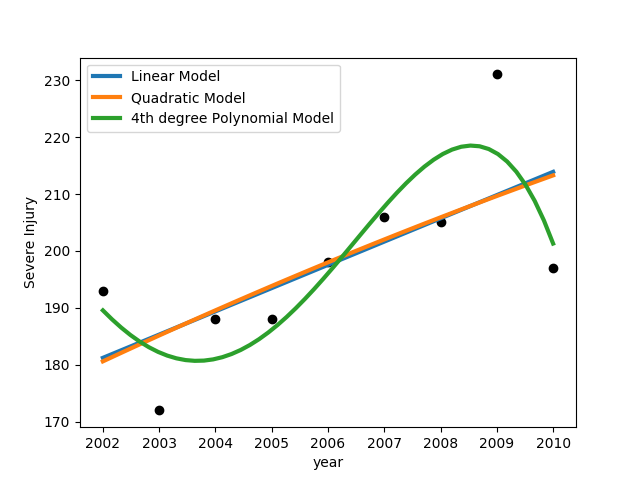
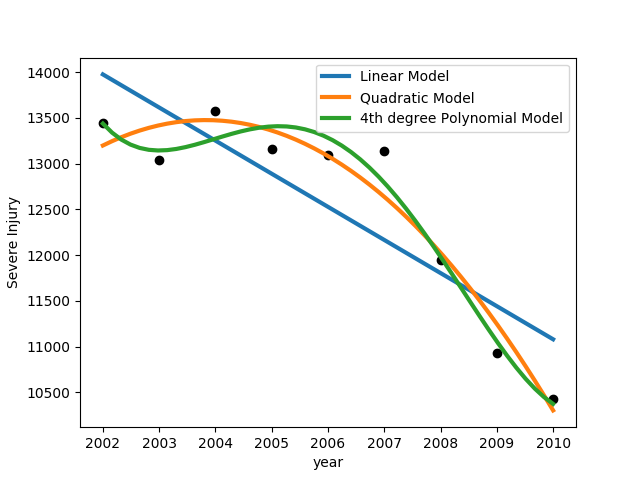
Added trend analysis

diff --git a/main.py b/main.py
@@ -1,9 +1,11 @@
 import os
 import argparse
+import scipy
+import sklearn as sk
 
 from utils import *
 
-def run_all_filter(x):
+def bool_filter(x):
 	if x.lower() in ['true', 't', 'yes', 'y']:
 		return True
 	elif x.lower() in ['false', 'f', 'no', 'n']:
@@ -15,10 +17,16 @@ if __name__ == '__main__':
 	parser = argparse.ArgumentParser()
 
 	parser.add_argument('-run_all',
-		type=run_all_filter,
+		type=bool_filter,
 		default=False,
 		help='Boolean flag. Run all? [True/False]'
 	)
+	parser.add_argument('-verbose',
+		type=bool_filter,
+		default=True,
+		help='Boolean flag. Print statements? [True/False]'
+	)
+
 
 	args = parser.parse_args()
 
@@ -29,7 +37,7 @@ if __name__ == '__main__':
 		]
 
 	filter_dict = {
-	'geoname': 'San Diego',
+	'geoname': 'California',
 	'severity': 'Severe Injury',
 	'mode': None,
 	'reportyear': range(2002,2011)
@@ -45,9 +53,12 @@ if __name__ == '__main__':
 		xs.update({m: xdata.filter_data(xdata.find_rows(filter_dict))})
 		print('\n')
 
+	traffic_models = {}
 	for key, data in xs.items():
+		print key
 		a = BuildModel(data, ylabel=filter_dict['severity'])
 		a.all(key)
+		traffic_models.update({key:a})
 
 
 	### Applying same code to Annual Miles Travelled
@@ -65,19 +76,42 @@ if __name__ == '__main__':
 	}
 	miles_data = InputData()
 	miles_data.load_data('data/annual-miles-traveled-2002-2010.csv', read_columns=filter_items)
-	xs = {}
+	ms = {}
 	for m in ['Bicyclist', 'Pedestrian', 'Vehicle']:
 		filter_dict['mode'] = m
-		xs.update({m: miles_data.filter_data(miles_data.find_rows(filter_dict))})
+		ms.update({m: miles_data.filter_data(miles_data.find_rows(filter_dict))})
 		print('\n')
 
-	for key, data in xs.items():
+	miles_models = {}
+	for key, data in ms.items():
+		print key
 		data.to_csv('test.csv')
 		a = BuildModel(data,ydim='ratio', ylabel='Miles Traveled per Square Mile')
-		#a.LinReg(key)
-		#a.QuadReg(key)
 		a.all(key)
+		miles_models.update({key: a})
 	
+	if args.verbose:
+		slope, inter, r, p, std = scipy.stats.mstats.linregress(traffic_models['Bicyclist'].y_lin, miles_models['Bicyclist'].y_lin)
+		print '\nBikers\nLinReg :: R-squard: {0:.2f}, P-Value: {1:.2f}'.format(r, p)
+		slope, inter, r, p, std = scipy.stats.mstats.linregress(traffic_models['Bicyclist'].y_quad, miles_models['Bicyclist'].y_quad)
+		print 'QuadReg :: R-squard: {0:.2f}, P-Value: {1:.2f}'.format(r, p)
+		slope, inter, r, p, std = scipy.stats.mstats.linregress(traffic_models['Bicyclist'].y_poly, miles_models['Bicyclist'].y_poly)
+		print 'Poly-4 :: R-squard: {0:.2f}, P-Value: {1:.2f}\n'.format(r, p)
+
+		slope, inter, r, p, std = scipy.stats.mstats.linregress(traffic_models['Pedestrian'].y_lin, miles_models['Pedestrian'].y_lin)
+		print 'Pedestrians\nLinReg :: R-squard: {0:.2f}, P-Value: {1:.2f}'.format(r, p)
+		slope, inter, r, p, std = scipy.stats.mstats.linregress(traffic_models['Pedestrian'].y_quad, miles_models['Pedestrian'].y_quad)
+		print 'QuadReg :: R-squard: {0:.2f}, P-Value: {1:.2f}'.format(r, p)
+		slope, inter, r, p, std = scipy.stats.mstats.linregress(traffic_models['Pedestrian'].y_poly, miles_models['Pedestrian'].y_poly)
+		print 'Poly-4 :: R-squard: {0:.2f}, P-Value: {1:.2f}\n'.format(r, p)
+
+		slope, inter, r, p, std = scipy.stats.mstats.linregress(traffic_models['Vehicles'].y_lin, miles_models['Vehicle'].y_lin)
+		print 'Vehicles\nLinReg :: R-squard: {0:.2f}, P-Value: {1:.2f}'.format(r, p)
+		slope, inter, r, p, std = scipy.stats.mstats.linregress(traffic_models['Vehicles'].y_quad, miles_models['Vehicle'].y_quad)
+		print 'QuadReg :: R-squard: {0:.2f}, P-Value: {1:.2f}'.format(r, p)
+		slope, inter, r, p, std = scipy.stats.mstats.linregress(traffic_models['Vehicles'].y_poly, miles_models['Vehicle'].y_poly)
+		print 'Poly-4 :: R-squard: {0:.2f}, P-Value: {1:.2f}\n'.format(r, p)
+
 	if args.run_all:
 		Tianxiang_work.main()
 		LogMode.main()

diff --git a/utils/ian.py b/utils/ian.py
@@ -108,6 +108,7 @@ class BuildModel:
 
 		self.regr = linear_model.LinearRegression()
 		self.regr.fit(self.x.reshape(len(self.x), 1), self.y.reshape(len(self.y), 1))
+		self.y_lin = self.regr.predict(self.x.reshape(len(self.x), 1))
 
 		plt.clf()
 		plt.scatter(self.x, self.y, color='black')
@@ -132,11 +133,11 @@ class BuildModel:
 		f = np.poly1d(z)
 
 		x_new = np.linspace(self.x[0], self.x[-1], 50)
-		y_new = f(x_new)
+		self.y_quad = f(x_new)
 
 		plt.clf()
 		plt.scatter(self.x, self.y, color='black')
-		plt.plot(x_new, y_new, linewidth=3, label=title)
+		plt.plot(x_new, self.y_quad, linewidth=3, label=title)
 		plt.xticks()
 		plt.yticks()
 		plt.ylabel(self.ylabel)
@@ -157,11 +158,11 @@ class BuildModel:
 		f = np.poly1d(z)
 
 		x_new = np.linspace(self.x[0], self.x[-1], 50)
-		y_new = f(x_new)
+		self.y_poly = f(x_new)
 
 		plt.clf()
 		plt.scatter(self.x, self.y, color='black')
-		plt.plot(x_new, y_new, linewidth=3, label=title)
+		plt.plot(x_new, self.y_poly, linewidth=3, label=title)
 		plt.xticks()
 		plt.yticks()
 		plt.ylabel(self.ylabel)
@@ -175,6 +176,7 @@ class BuildModel:
 	def all(self, title, **kwargs):
 		assert isinstance(title, str), "title needs to be of type str, not {0}".format(type(title))
 
+		predict_year = kwargs.pop('predict', 2018)
 		if not os.path.exists('results/all/'):
 			os.makedirs('results/all/')
 
@@ -182,23 +184,26 @@ class BuildModel:
 		f = np.poly1d(z)
 
 		x_poly = np.linspace(self.x[0], self.x[-1], 50)
-		y_poly = f(x_poly)
+		self.y_poly = f(x_poly)
+		print 'Poly-4 2018 Prediction: {0}'.format(f(predict_year))		
 
 		z = np.polyfit(self.x, self.y, 2)
 		f = np.poly1d(z)
 
 		x_quad = np.linspace(self.x[0], self.x[-1], 50)
-		y_quad = f(x_quad)	
+		self.y_quad = f(x_quad)
+		print 'QuadReg 2018 Prediction: {0}'.format(f(predict_year))	
 
 		self.regr = linear_model.LinearRegression()
 		self.regr.fit(self.x.reshape(len(self.x), 1), self.y.reshape(len(self.y), 1))
-
+		self.y_lin = self.regr.predict(self.x.reshape(len(self.x), 1))
+		print 'LinReg 2018 Prediction: {0}'.format(self.regr.predict(predict_year))
 
 		plt.clf()
 		plt.scatter(self.x, self.y, color='black')
 		plt.plot(self.x, self.regr.predict(self.x.reshape(len(self.x), 1)), linewidth=3, label='Linear Model')
-		plt.plot(x_quad, y_quad, linewidth=3, label='Quadratic Model')
-		plt.plot(x_poly, y_poly, linewidth=3, label='{0}th degree Polynomial Model'.format(kwargs.pop('deg', 4)))		
+		plt.plot(x_quad, self.y_quad, linewidth=3, label='Quadratic Model')
+		plt.plot(x_poly, self.y_poly, linewidth=3, label='{0}th degree Polynomial Model'.format(kwargs.pop('deg', 4)))		
 		plt.xticks()
 		plt.yticks()
 		plt.ylabel(self.ylabel)
